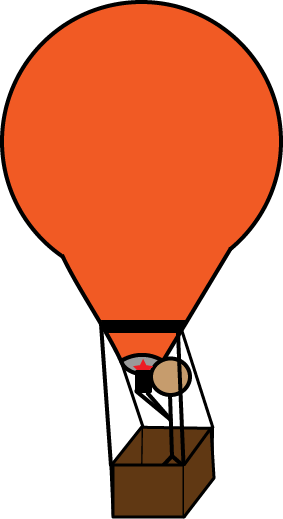
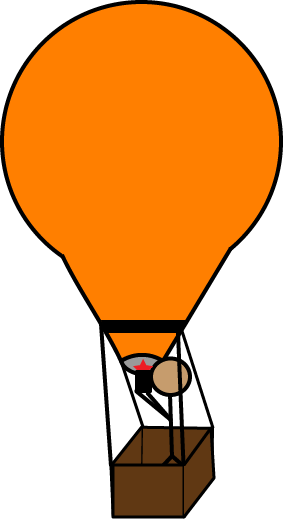
Five balloons and push to go far fn

diff --git a/js/scenes/gameScene.js b/js/scenes/gameScene.js
@@ -22,13 +22,13 @@ gameScene.init = function () {
 
     // game / scene stats at the beginning
     this.setup = {
-        minSpeed: 0.25,
+        minSpeed: 0.5,
         maxSpeed: 1.25,
-        minY: this.gameH - 100,
-        maxY: this.gameH - 500,
+        minY: this.gameH - 500,
+        maxY: this.gameH - 100,
         minDepth: 52,
         maxDepth: 70,
-        minScale: 0.5,
+        minScale: 0.7,
         maxScale: 0.9
     };
 
@@ -36,11 +36,12 @@ gameScene.init = function () {
     this.float = {
         speed: 0.25,
         minDepth: 0,
-        maxDepth: 51
+        maxDepth: 51,
+        minY: this.gameH - 500
     };
 
     // balloon colors
-    this.colorsA = ['violet', 'jaune', 'orange', 'vert', 'magenta'];
+    this.colorsA = ['violet', 'jaune', 'orange', 'vert', 'rouge'];
 
     // balloon states
     this.isFlying = false;
@@ -75,7 +76,7 @@ gameScene.create = function () {
         myA.push(obj);
     }
     this.balloons = this.add.group(myA);
-    // going up - make depths between 0 (bg) and 30 (nuage)
+
     // params = start, step
     //this.balloons.setDepth(1,1);
 
@@ -97,14 +98,14 @@ gameScene.create = function () {
         //console.log(balloon.scaleX);
 
         // define depth based on speed
-        balloon.setDepth(this.setup.maxDepth - tempR * (this.setup.maxDepth - this.setup.minDepth));
+        balloon.setDepth(this.setup.minDepth + tempR * (this.setup.maxDepth - this.setup.minDepth));
         // define depth based on speed
         balloon.y = this.setup.minY + tempR * (this.setup.maxY - this.setup.minY);
-        balloon.x = Math.round(80+Math.random() * this.gameW);
+        balloon.x = Math.round(80 + Math.random() * this.gameW);
 
+        // starting off FF
         balloon.isFlying = false;
         balloon.isTouched = false;
-        // set by y
         balloon.isOffGround = false;
 
         // set interactive.
@@ -114,7 +115,13 @@ gameScene.create = function () {
     });
 };
 gameScene.liftOff = function () {
-    this.isFlying = true;
+    // if FF, make TF
+    if (!this.isFlying && !this.isTouched) {
+        this.isFlying = true;
+        return;
+    }
+
+    if (this.isFlying && !this.isTouched && this.y < this.scene.float.minY) this.isTouched = true;
 };
 
 
@@ -131,12 +138,23 @@ gameScene.createUI = function () {
 gameScene.update = function () {
 
     this.balloons.getChildren().forEach(balloon => {
+        // if too high, reset
+        if (balloon.y < -1000) balloon.isFlying = balloon.isTouched = false;
 
-        if (!balloon.isFlying) return;
+        // TF
+        if (balloon.isFlying && !balloon.isTouched) {
+            // to make math easier, make upper left balloon origins
+            balloon.y -= balloon.speed;
+        }
 
-        // to make math easier, make upper left balloon origins
-        balloon.y -= balloon.speed;
-        if (balloon.y < -1000) balloon.isFlying = false;
+        // TT
+        if (balloon.isFlying && balloon.isTouched) {
+            // to make math easier, make upper left balloon origins
+            balloon.y -= this.float.speed;
+            balloon.setDepth(5);
+            balloon.setScale(balloon.scaleX * 0.999);
+            console.log('2nd');
+        }
 
     });
 

diff --git a/js/scenes/loadingScene.js b/js/scenes/loadingScene.js
@@ -53,7 +53,7 @@ loadingScene.preload = function () {
     this.load.image('jaune', 'assets/images2/jaune.png');
     this.load.image('orange', 'assets/images2/orange.png');
     this.load.image('vert', 'assets/images2/vert.png');
-    this.load.image('magenta', 'assets/images2/magenta.png');
+    this.load.image('rouge', 'assets/images2/rouge.png');
 
     // load character spritesheet
     /* this.load.spritesheet('pet', 'assets/images/pet.png', {
